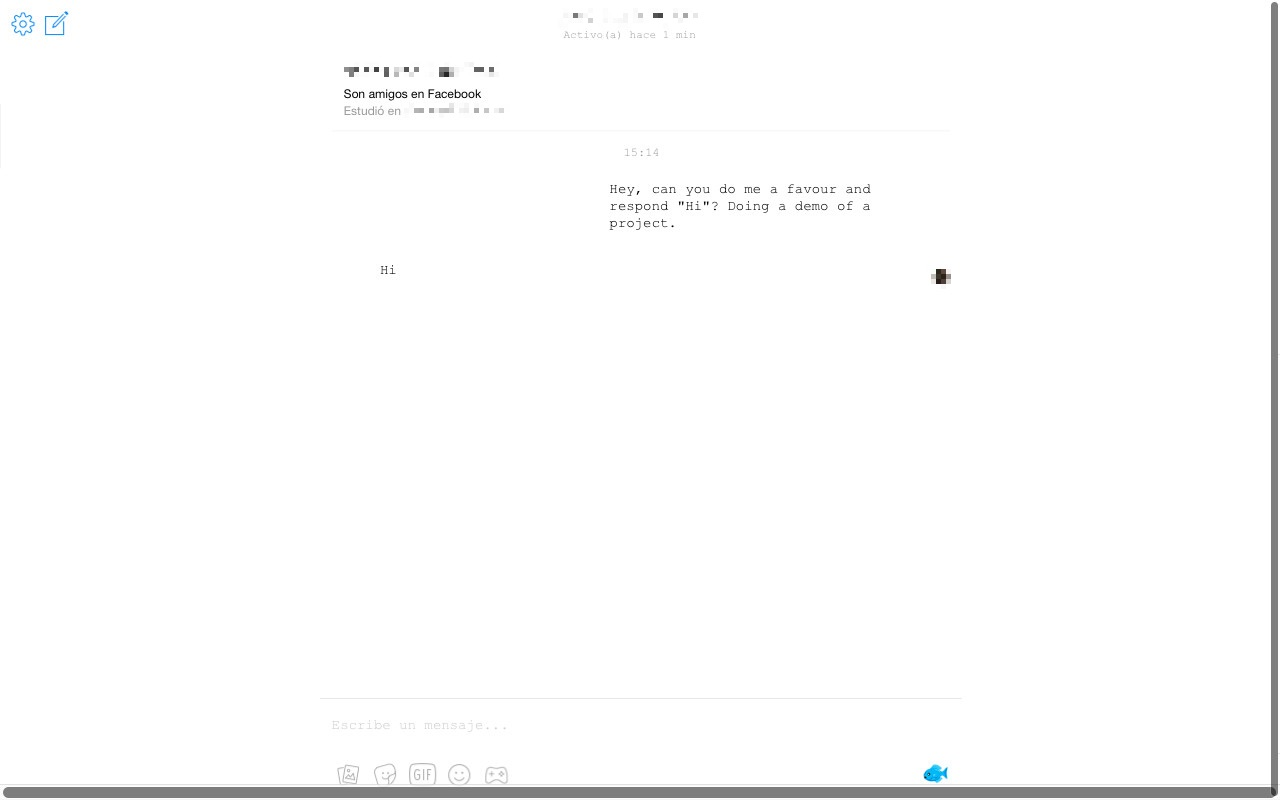
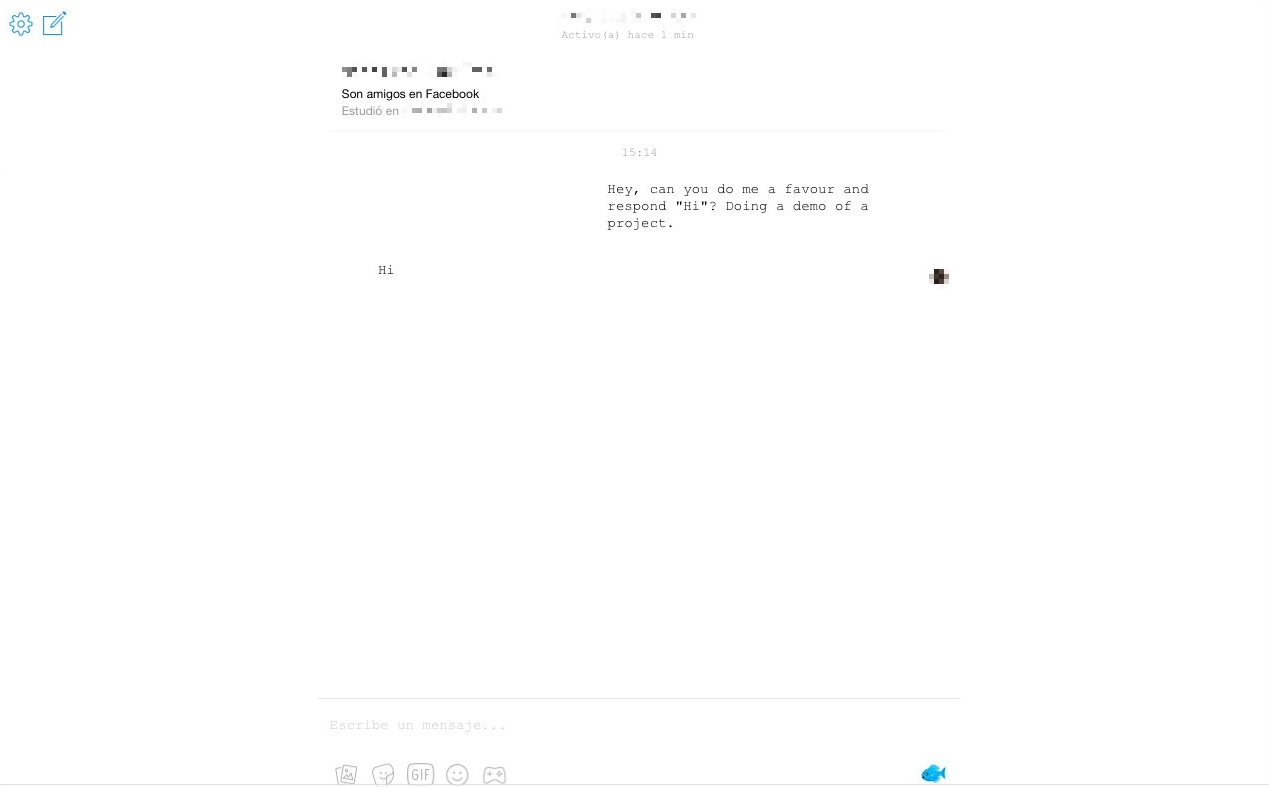
fixing screenshots

diff --git a/README.md b/README.md
@@ -1,6 +1,6 @@
 # Quiet Facebook
 
-![](https://raw.githubusercontent.com/knwr/quiet-messenger/master/screenshot-1.jpg)
+![](https://raw.githubusercontent.com/knwr/quiet-messenger/master/screenshot-1.png)
 ![](https://raw.githubusercontent.com/knwr/quiet-messenger/master/screenshot-2.jpg)
 
 ## Installation
